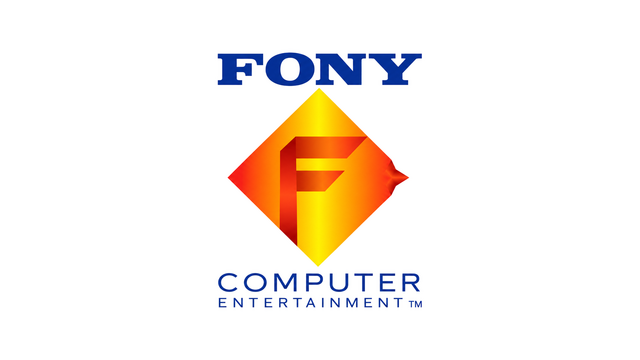
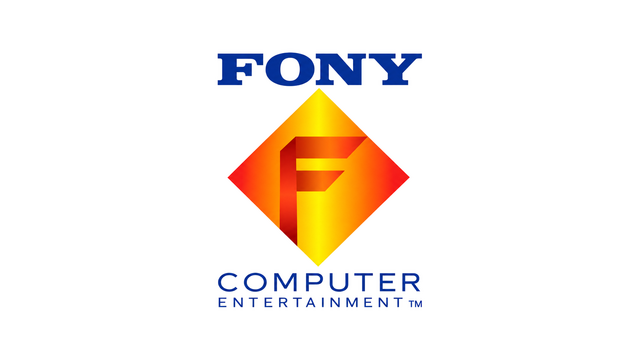
FONY gets its point back: the diamond squares up
The art-directed "dent" on the diamond's right corner read as a
rendering glitch, a pinched little star instead of a fender-bender.
It is gone: a Codex edit pass repaired only that corner, so the emblem
is a clean rhombus again, symmetric to within a pixel, with the
wordmark, the folded F, and the copy untouched.

source/ keeps the edit brief (brief_fony_fix.md), the base brief no
longer asks for damage, and the README documents edit-instead-of-reroll
for single-detail repairs.

diff --git a/assets/boot/source/brief_fony.md b/assets/boot/source/brief_fony.md
@@ -8,11 +8,11 @@ Canvas: landscape 3:2. Pure flat white background (#FFFFFF) edge to edge. No vig
 
 Layout (everything horizontally centered, generous empty margins):
 1. Top: the wordmark "FONY" in bold, wide, heavy slab-serif capitals, deep royal blue (about #0B2E9E). Exactly four letters: F, O, N, Y.
-2. Middle: a large diamond emblem (a square rotated 45 degrees), about 45% of the canvas height. Fill: a smooth horizontal gradient, red-orange at the left and right points and bright yellow along the vertical centerline. Inside the diamond, a folded-ribbon capital letter "F" made of darker red-orange creases (a faux-3D paper fold drawn with gradients only). The F has a vertical stem and two horizontal arms pointing right. The diamond's right-hand point is visibly DENTED and crumpled, like a car fender after a minor crash: one small bent, creased corner. All other edges are crisp and geometric.
+2. Middle: a large diamond emblem (a square rotated 45 degrees), about 45% of the canvas height. Fill: a smooth horizontal gradient, red-orange at the left and right points and bright yellow along the vertical centerline. Inside the diamond, a folded-ribbon capital letter "F" made of darker red-orange creases (a faux-3D paper fold drawn with gradients only). The F has a vertical stem and two horizontal arms pointing right, and it stays clear of all four corners. The diamond is a PERFECT square rotated exactly 45 degrees: four perfectly straight edges, four sharp corners, left and right points at the same height.
 3. Bottom: two lines of thin, wide-tracked sans-serif capitals in the same blue: "COMPUTER" (larger) above "ENTERTAINMENT" (smaller), with a tiny "TM" mark right after ENTERTAINMENT.
 
 Exact text, verbatim, and nothing else anywhere in the image: "FONY", "COMPUTER", "ENTERTAINMENT", "TM".
 
 Style: clean flat corporate logo render in the manner of a 1990s video-game boot screen, very slightly soft like a low-resolution frame that was upscaled.
 
-Avoid: any real company's logo or wordmark, extra objects, sparkles, lens flare, watermark, signature, additional text, misspellings.
+Avoid: dents, creases, notches or crumpling on the diamond outline, wavy edges, rounded corners, any real company's logo or wordmark, extra objects, sparkles, lens flare, watermark, signature, additional text, misspellings.

diff --git a/assets/boot/source/brief_fony_fix.md b/assets/boot/source/brief_fony_fix.md
@@ -1,0 +1,11 @@
+Task: EDIT the attached image (also saved as ./card_fony_src.png) with the built-in image_gen tool, then copy the final PNG to ./card_fony_fix.png in the current working directory. Do not create or modify any other file. Finish by reporting the saved path.
+
+Attached image: role = EDIT TARGET. It is a parody startup logo card: the wordmark "FONY", a gradient diamond emblem with a folded letter F inside, and "COMPUTER ENTERTAINMENT TM" below, on a white background.
+
+The one change: repair the diamond's RIGHT-HAND corner. Right now that corner is pinched and crumpled into a small star-like squiggle. Replace it with a clean, sharp point, so the emblem is a perfect square rotated 45 degrees: four perfectly straight edges and four sharp corners. The right point must be the exact mirror image of the left point, at the same height as the left point. Continue the existing red-orange gradient smoothly all the way to the tip, with no crease, no fold, no notch, no dent and no darker patch there.
+
+Invariants, keep exactly as they are: the "FONY" wordmark, the folded F inside the diamond, the gradient colors (red-orange at the side points, bright yellow on the vertical centerline), the top, left and bottom corners of the diamond, the "COMPUTER" and "ENTERTAINMENT TM" lines, all positions and sizes, and the pure flat white background. Same canvas size and framing.
+
+Exact text, verbatim, nothing added or removed: "FONY", "COMPUTER", "ENTERTAINMENT", "TM".
+
+Avoid: any wobble or curve on the diamond edges, rounded corners, new objects, extra text, watermark.

diff --git a/assets/boot/README.md b/assets/boot/README.md
@@ -7,7 +7,7 @@ text lines on the matte, a sting without a file runs silent.
 
 | File | What it is |
 |---|---|
-| `card_fony.png` | card 1, white matte: `FONY` / dented F diamond / `COMPUTER ENTERTAINMENT ™` |
+| `card_fony.png` | card 1, white matte: `FONY` / F diamond / `COMPUTER ENTERTAINMENT ™` |
 | `card_fanstation.png` | card 2, black matte: F-on-S emblem / `FanStation` / `not Licensed by Anyone` / `IPACRAO™` |
 | `boot_sting.ogg` | the one sound under both cards, 14.5s stereo one-shot |
 | `source/` | full-size generated art + the briefs that made it (`.gdignore`d — never imported, never shipped) |
@@ -49,6 +49,18 @@ The cards were generated by Codex's built-in image tool from the briefs in
 
 The thresholds force the matte pure; the FONY card's `-resize 86%` gives the
 emblem its breathing room; the final `-resize` is the softness knob.
+
+To repair one detail of a card that is otherwise right, EDIT it instead of
+rerolling: attach the source art and name the single change plus everything
+that must stay. `source/brief_fony_fix.md` is the pass that squared up the
+diamond's right point:
+
+    codex exec --skip-git-repo-check -s workspace-write \
+        -i source/card_fony_src.png < source/brief_fony_fix.md
+
+Editing needs a Codex build whose sandbox can read the attachment. Keep
+emblem geometry clean in briefs: an art-directed "dent" on the diamond read
+as a rendering glitch, not a joke, and was removed.
 
 ## Regenerating the sting
 
